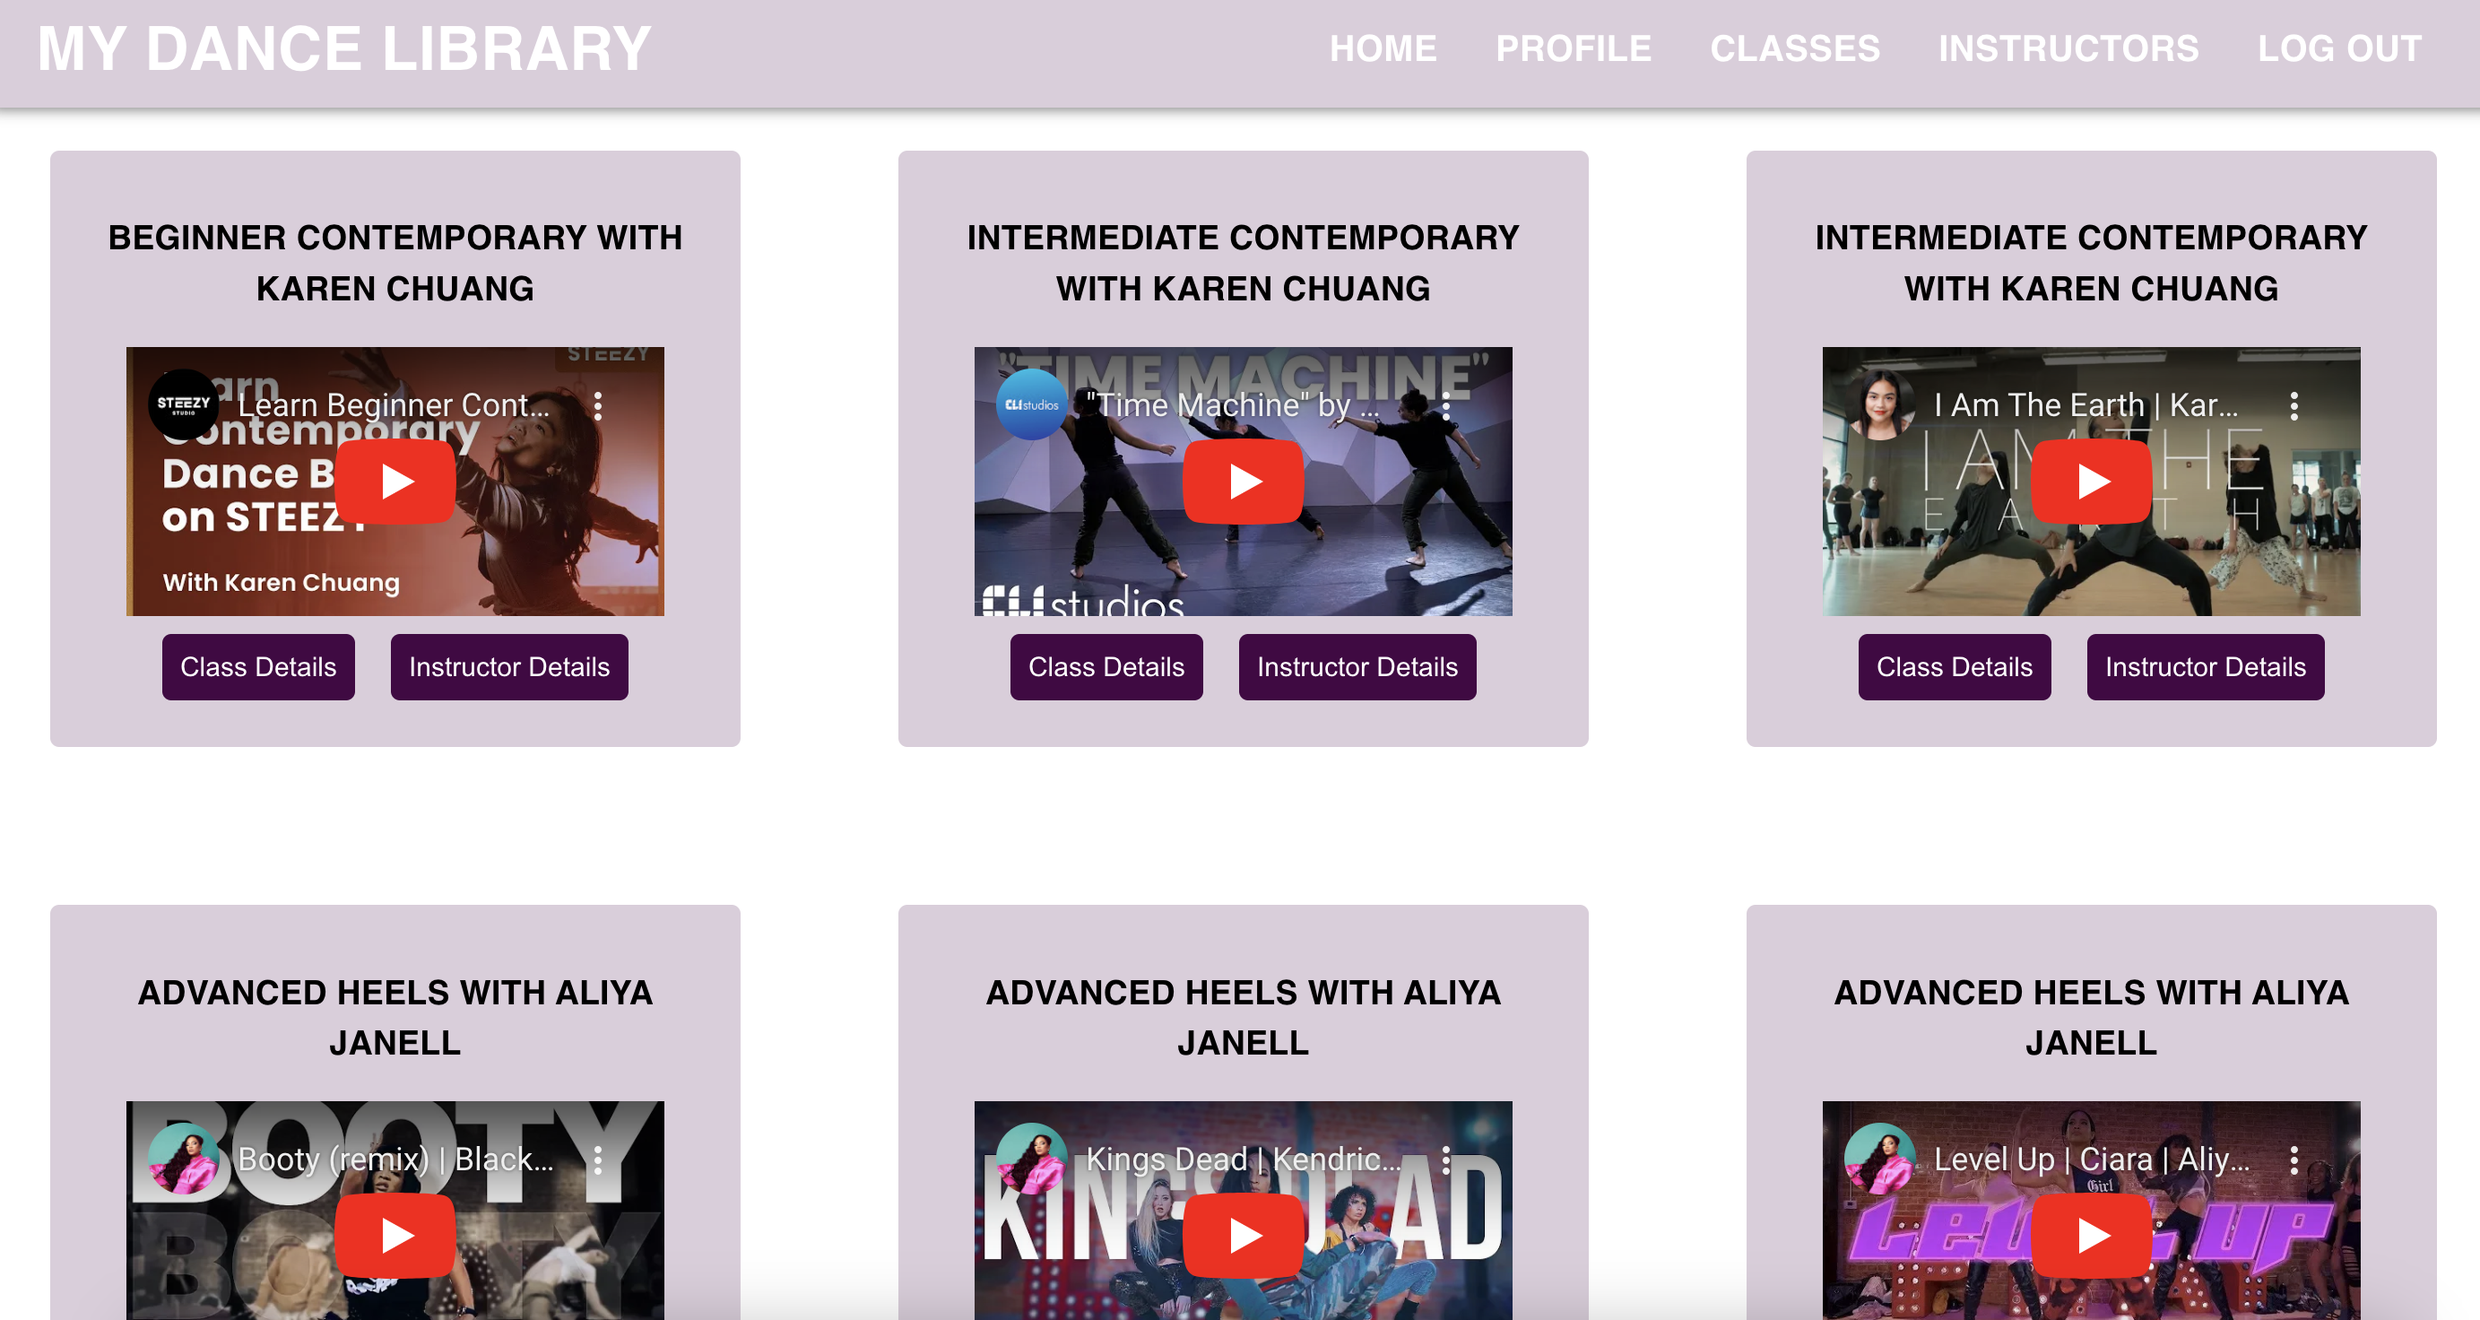
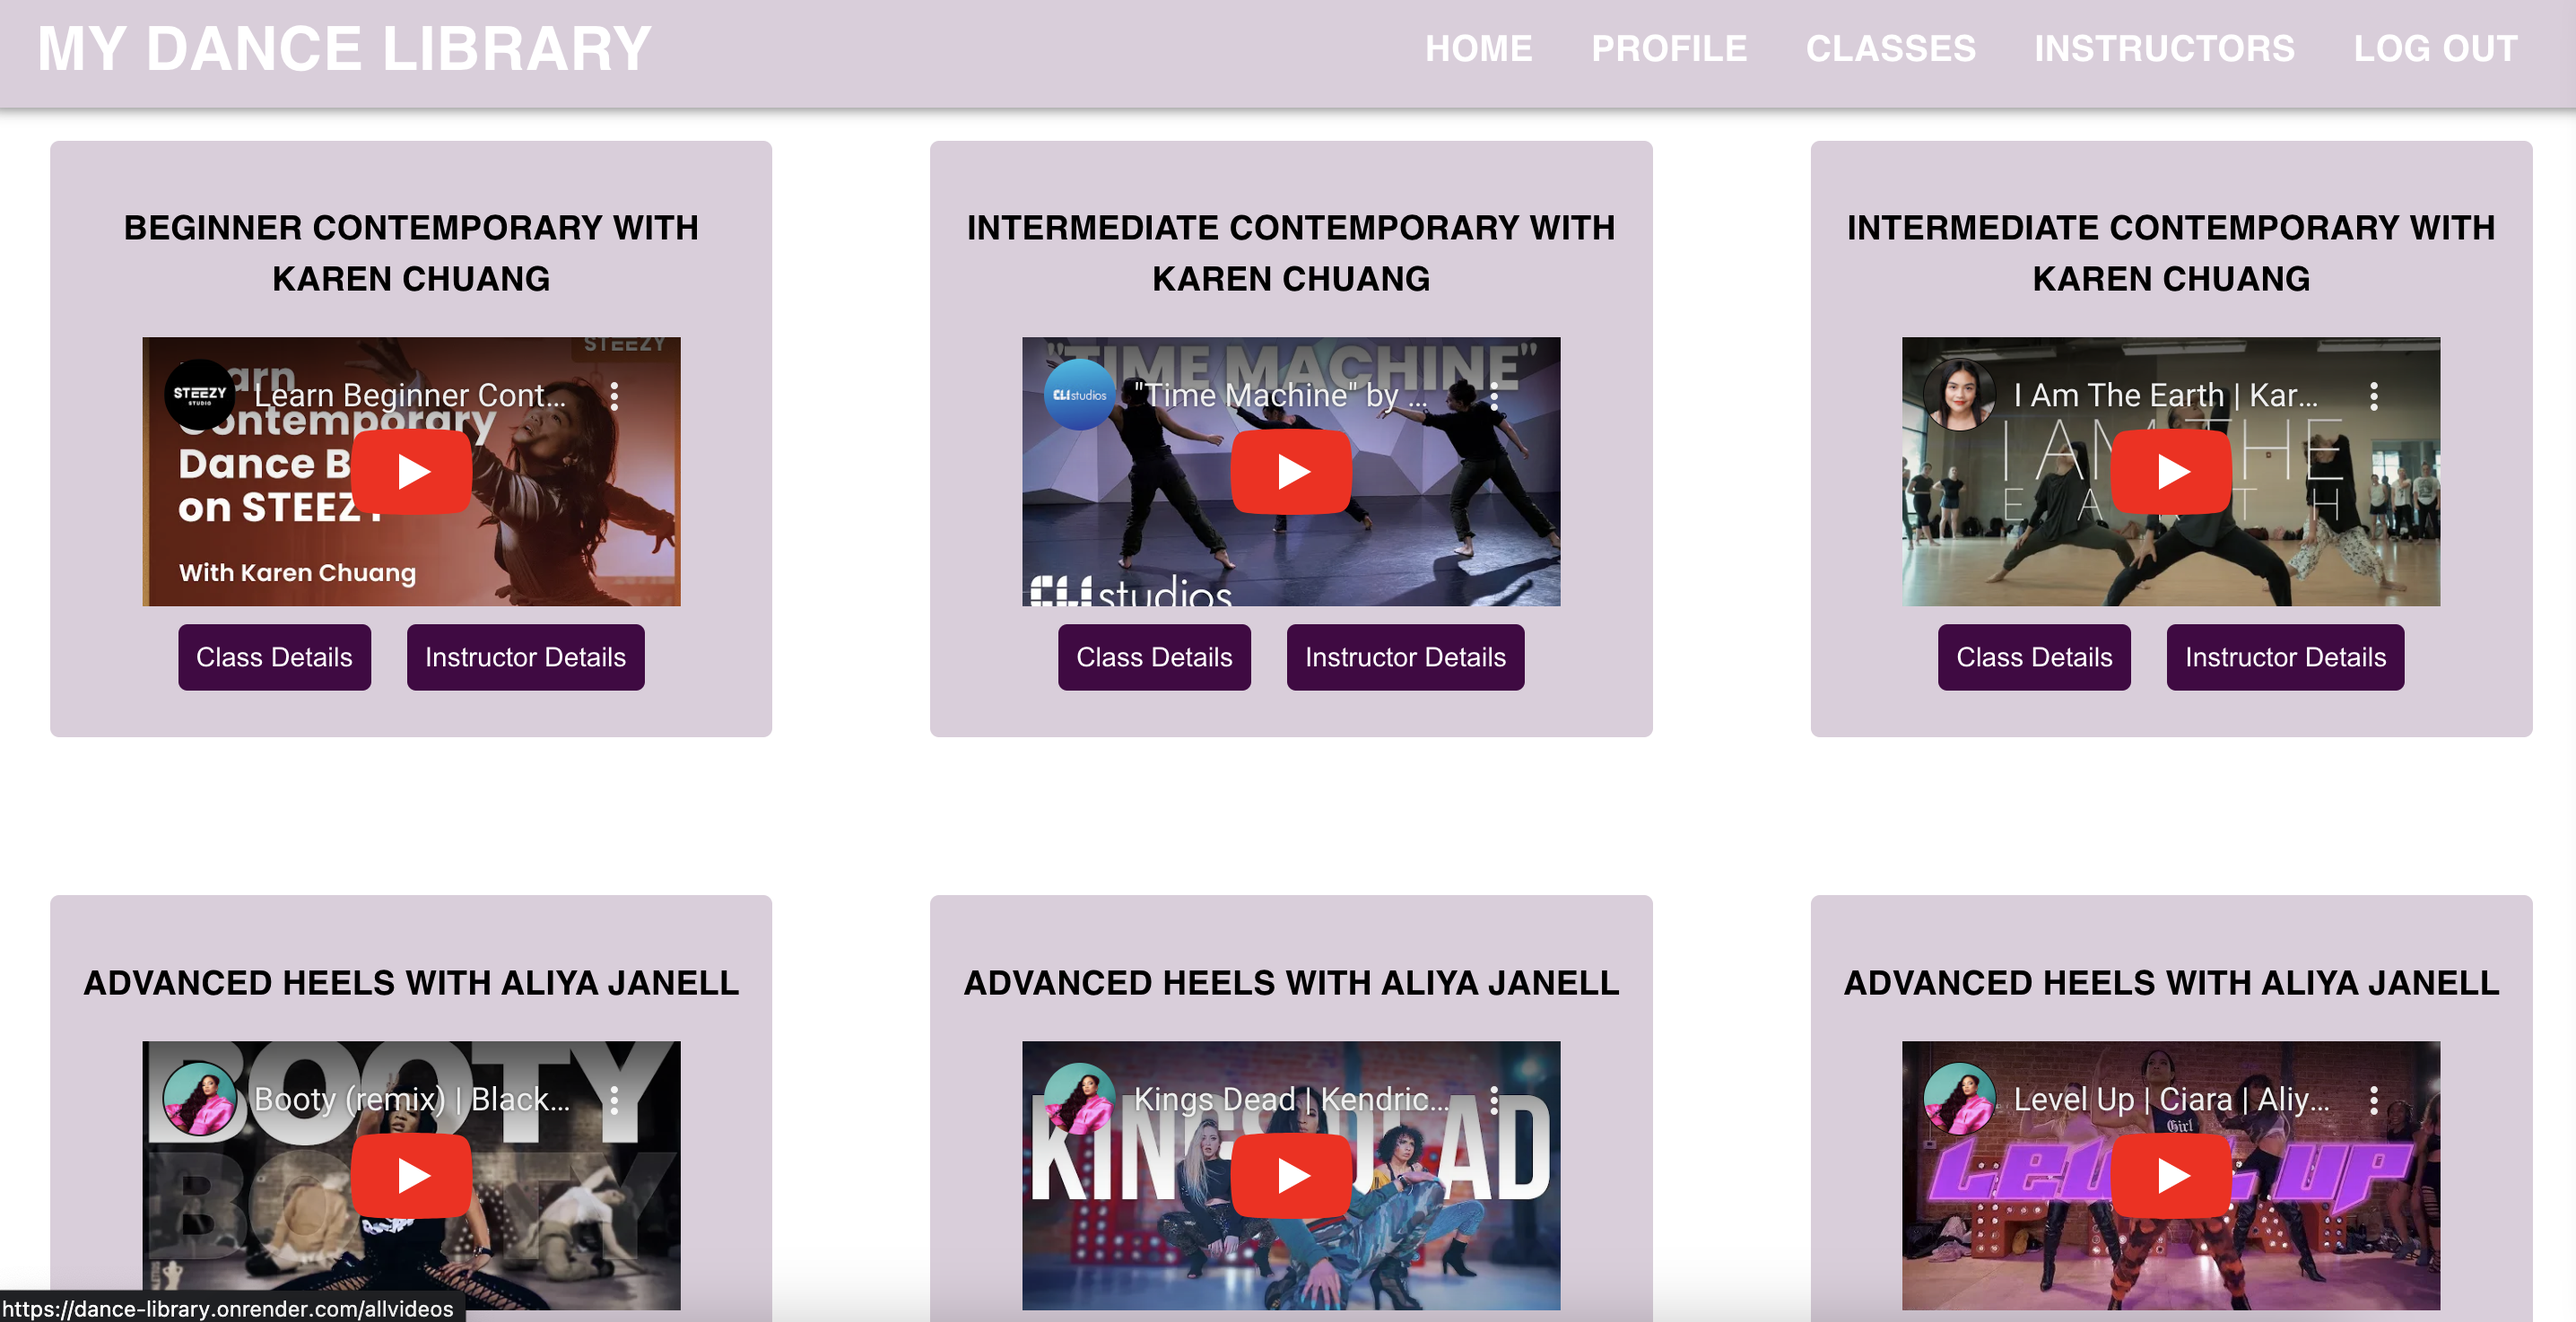
fixing project photos

diff --git a/src/components/portfolio/Portfolio.jsx b/src/components/portfolio/Portfolio.jsx
@@ -1,9 +1,9 @@
 import React from "react";
 import "./portfolio.css";
-import IMG1 from "../../assets/aMUSE-img.png";
-import IMG2 from "../../assets/dancelibrary.png";
-import IMG3 from "../../assets/Christinas-List.png";
-import ComingSoon from "../../assets/coming-soon.png";
+import IMG1 from "../../assets/aMUSE-userMap.png";
+import IMG2 from "../../assets/dancelibraryClasses.png";
+import IMG3 from "../../assets/Christinas-List-final.png";
+import ComingSoon from "../../assets/comingsoon.jpg";
 import { useNavigate } from "react-router-dom";
 
 const Portfolio = () => {
@@ -191,7 +191,7 @@ const Portfolio = () => {
             </a>
           </div>
         </article>
-        {/* <article className="portfolio__item">
+        <article className="portfolio__item">
           <div className="portfolio__item-image">
             <img
               src={ComingSoon}
@@ -216,7 +216,7 @@ const Portfolio = () => {
               Github
             </a>
           </div>
-        </article> */}
+        </article>
       </div>
     </section>
   );

diff --git a/src/components/portfolio/projects/DanceLibrary.jsx b/src/components/portfolio/projects/DanceLibrary.jsx
@@ -1,6 +1,6 @@
 import React from "react";
 import "./projects.css";
-import IMG1 from "../../../assets/dancelibraryclasses.png";
+import IMG1 from "../../../assets/dancelibraryClasses.png";
 import { useNavigate } from "react-router-dom";
 import { FiArrowLeftCircle } from "react-icons/fi";
 

diff --git a/src/components/portfolio/projects/ChristinasList.jsx b/src/components/portfolio/projects/ChristinasList.jsx
@@ -1,6 +1,6 @@
 import React from "react";
 import "./projects.css";
-import IMG1 from "../../../assets/Christinas-List.png";
+import IMG1 from "../../../assets/Christinas-List-final.png";
 import { useNavigate } from "react-router-dom";
 import { FiArrowLeftCircle } from "react-icons/fi";
 
